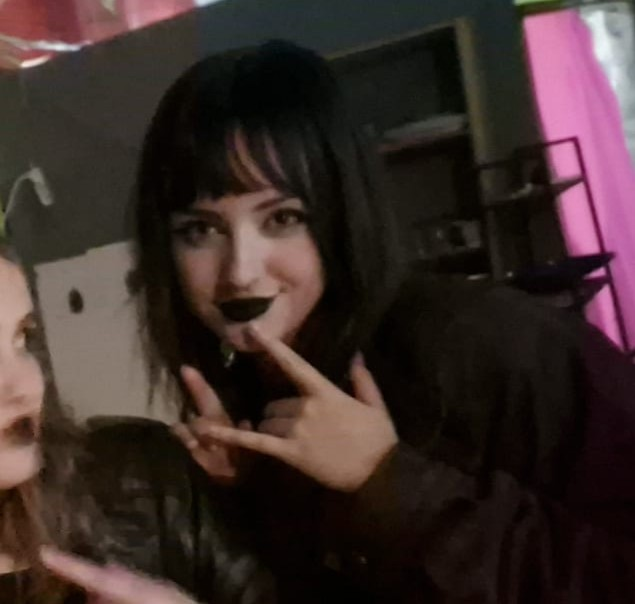
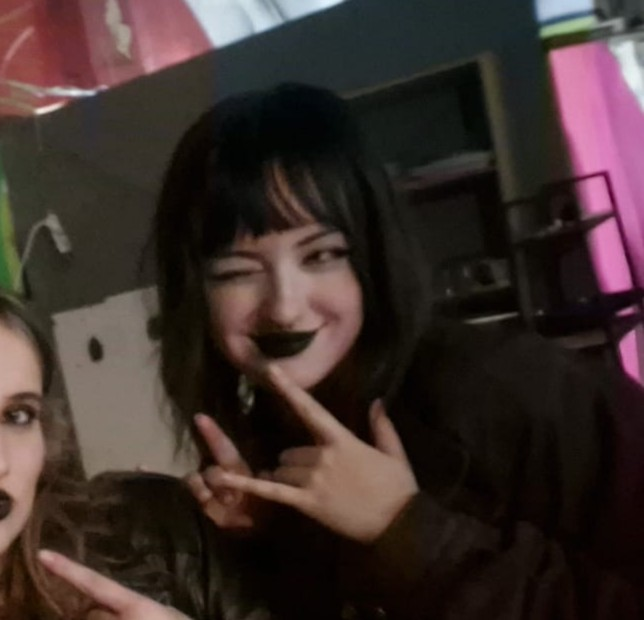
Credits update

diff --git a/views/credits.html b/views/credits.html
@@ -111,6 +111,23 @@
         .role { color: var(--accent); font-weight: bold; margin-bottom: 15px; letter-spacing: 1px; }
         .bio { color: #ccc; font-size: 0.95em; line-height: 1.5; }
     
+        /* --- CONTACT OVERLAY --- */
+        .credit-card { position: relative; cursor: pointer; overflow: hidden; }
+        .contact-overlay {
+            position: absolute; top: 0; left: 0; width: 100%; height: 100%;
+            background: rgba(26, 16, 42, 0.95); 
+            display: flex; flex-direction: column; justify-content: center; align-items: center;
+            opacity: 0; pointer-events: none; transition: 0.3s ease-in-out;
+            border-radius: 15px; padding: 20px; box-sizing: border-box;
+            backdrop-filter: blur(4px);
+        }
+        .credit-card.show-contact .contact-overlay { opacity: 1; pointer-events: auto; }
+        
+        .contact-item {
+            color: white; text-decoration: none; font-size: 1.1em; margin: 10px 0;
+            display: block; transition: 0.2s; border-bottom: 1px dashed transparent;
+        }
+        .contact-item:hover { color: var(--accent); border-bottom: 1px dashed var(--accent); }
         
     </style>
 </head>
@@ -150,39 +167,57 @@
 
         <div class="header-section">
             <h1>SYSTEM ARCHITECTS</h1>
-            <p>The Tokenization & Embeddings team responsible for constructing the grid. <br>Without them, there would only be zeroes.</p>
+            <p>The Tokenization & Embeddings team responsible for constructing the grid. <br>Click to see contact information!</p>
         </div>
 
         <main class="credits-container">
             
-            <div class="credit-card">
+            <div class="credit-card" onclick="this.classList.toggle('show-contact')">
                 <img src="/jimena.jpeg" alt="Profile" class="avatar">
                 <h2>Jimena Suárez-Valdés</h2>
                 <div class="role">// Website development and Tokenizer research</div>
                 <div class="bio">
                     Computer science student with a passion for heavier and electronic music, wishes to work as a synthesizer specialist.
                 </div>
+                <div class="contact-overlay">
+                    <h2 style="color: var(--text-main);">COMM LINK</h2>
+                    <a href="jimenasuarezvaldesss@gmail.com" class="contact-item">✉ Email Jimena</a>
+                    <a href="https://github.com/JimenaSuarVald" target="_blank" class="contact-item">GitHub Profile</a>
+                    <p style="color: #666; font-size: 0.8em; margin-top: 20px;">[ Click anywhere to close ]</p>
+                </div>
             </div>
 
-            <div class="credit-card">
-                <img src="https://via.placeholder.com/150/1a102a/ffb74d?text=AVATAR" alt="Profile" class="avatar" style="border-color: var(--text-main);">
+            <div class="credit-card" onclick="this.classList.toggle('show-contact')">
+                <img src="https://via.placeholder.com/150/1a102a/ffb74d?text=AVATAR" alt="Profile" class="avatar">
                 <h2>Bernardino Gómez Mendoza</h2>
                 <div class="role">// Tasks designer and Embeddings researcher</div>
                 <div class="bio">
                     Info extra
                 </div>
+                <div class="contact-overlay">
+                    <h2 style="color: var(--text-main);">COMM LINK</h2>
+                    <a href="mailto:bernardino@example.com" class="contact-item">✉ Email Bernardino</a>
+                    <a href="https://github.com/bernardino" target="_blank" class="contact-item"> GitHub Profile</a>
+                    <p style="color: #666; font-size: 0.8em; margin-top: 20px;">[ Click anywhere to close ]</p>
+                </div>
             </div>
 
-                        <div class="credit-card">
-                <img src="https://via.placeholder.com/150/1a102a/ffb74d?text=AVATAR" alt="Profile" class="avatar" style="border-color: var(--text-main);">
+            <div class="credit-card" onclick="this.classList.toggle('show-contact')">
+                <img src="https://via.placeholder.com/150/1a102a/ffb74d?text=AVATAR" alt="Profile" class="avatar">
                 <h2>Sofía Serrano Pinzón</h2>
                 <div class="role">// Tasks designer and AI researcher</div>
                 <div class="bio">
                     Info extra
                 </div>
+                <div class="contact-overlay">
+                    <h2 style="color: var(--text-main);">COMM LINK</h2>
+                    <a href="mailto:sofia@example.com" class="contact-item">✉ Email Sofía</a>
+                    <a href="https://github.com/sofia" target="_blank" class="contact-item"> GitHub Profile</a>
+                    <p style="color: #666; font-size: 0.8em; margin-top: 20px;">[ Click anywhere to close ]</p>
+                </div>
             </div>
 
-            </main>
+        </main>
     </div>
 
 <script>
